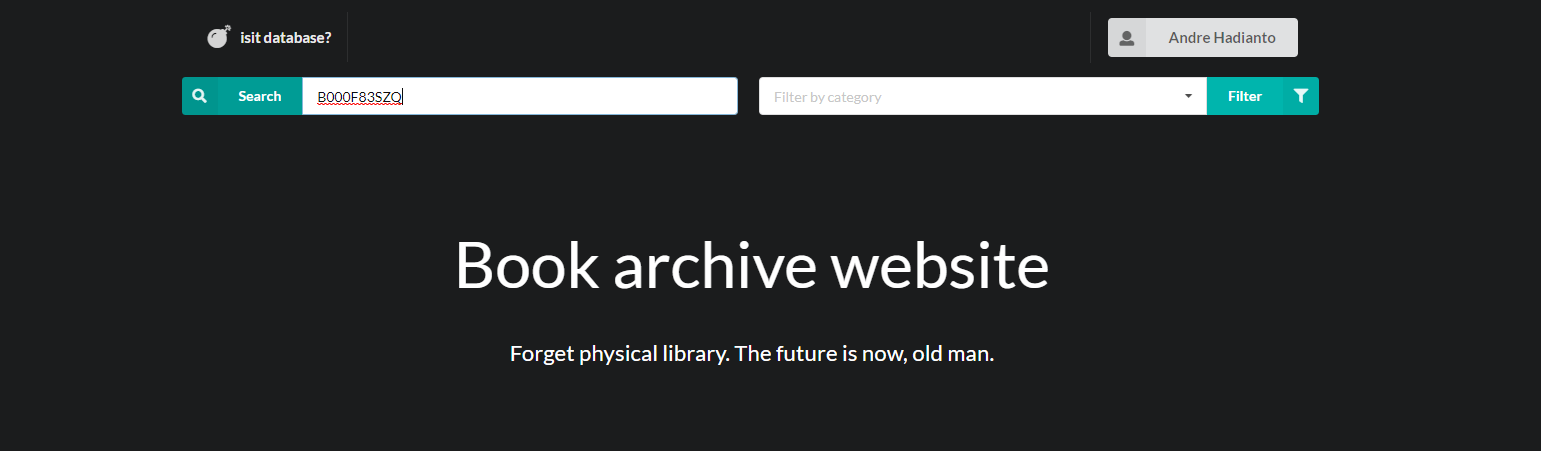
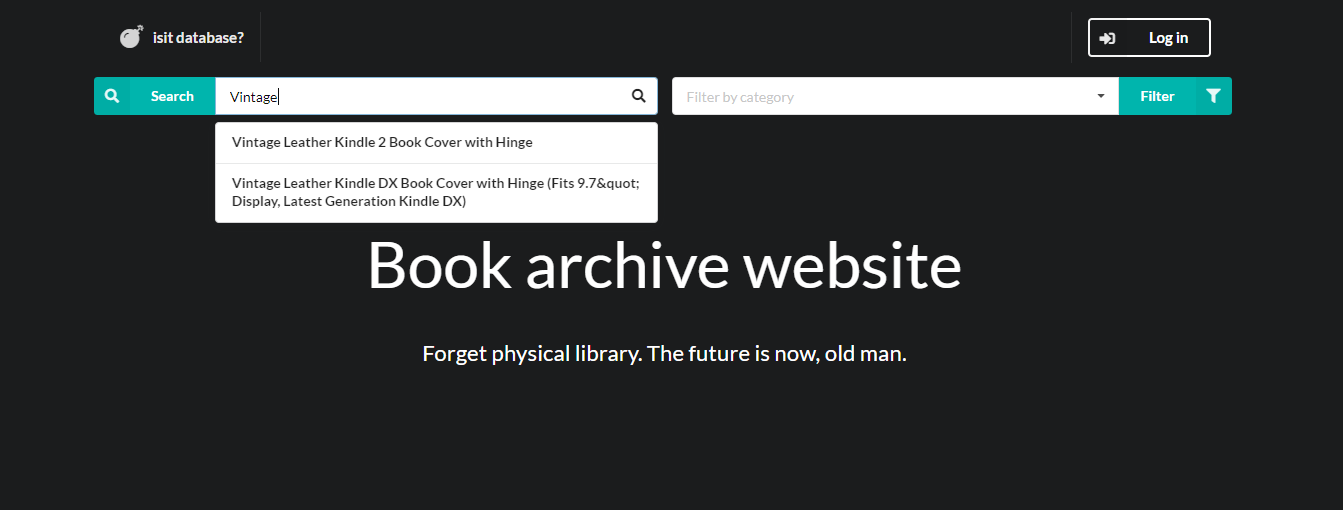
update readme

Changed region(s): [[0.0611, 0.031, 0.9159, 0.6519], [0.3053, 0.6829, 0.6716, 0.714], [0.3358, 0.7761, 0.6411, 0.8071]]

diff --git a/static/README.md b/static/README.md
@@ -60,16 +60,16 @@ static
 ## Features
 -----
 ![Homepage](/static/images/01.png)  
-Homepage of our webiste shows a list of all books available in our database. User may sign up and login to our website.  
+Homepage of our webiste shows a list of all books available in our database. User may sign up and login to our website to get the full feature of the website.  
 
 ![Filter](/static/images/02.png)  
-Filter the books by multiple categories. Type inside the input form for category suggestions.  
+Filter the books by multiple categories. Type inside the input form for category suggestions. User may click on multiple categories to only show books with the selected categories.  
 
 ![Filtered Book](/static/images/07.png)  
-Filtered books will show the filtered categories in the labels by upper-left corner.  
+Filtered books will show the filtered categories through labels on the upper-left corner of the page.  
 
 ![Search](/static/images/03.png)  
-Search a book by its asin code.  
+Search a book by its title. Suggestion of the titles will show as the user type in the input box.  
 
 ![Login](/static/images/04.png)  
 User may login to gain access to user-only features.  
